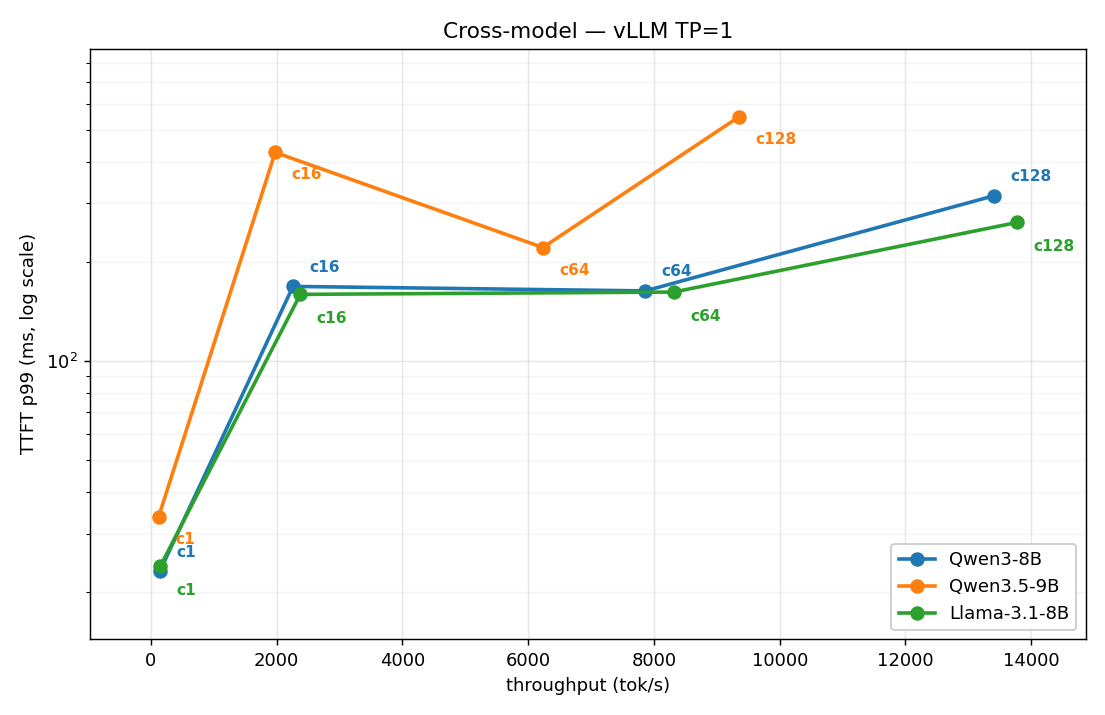
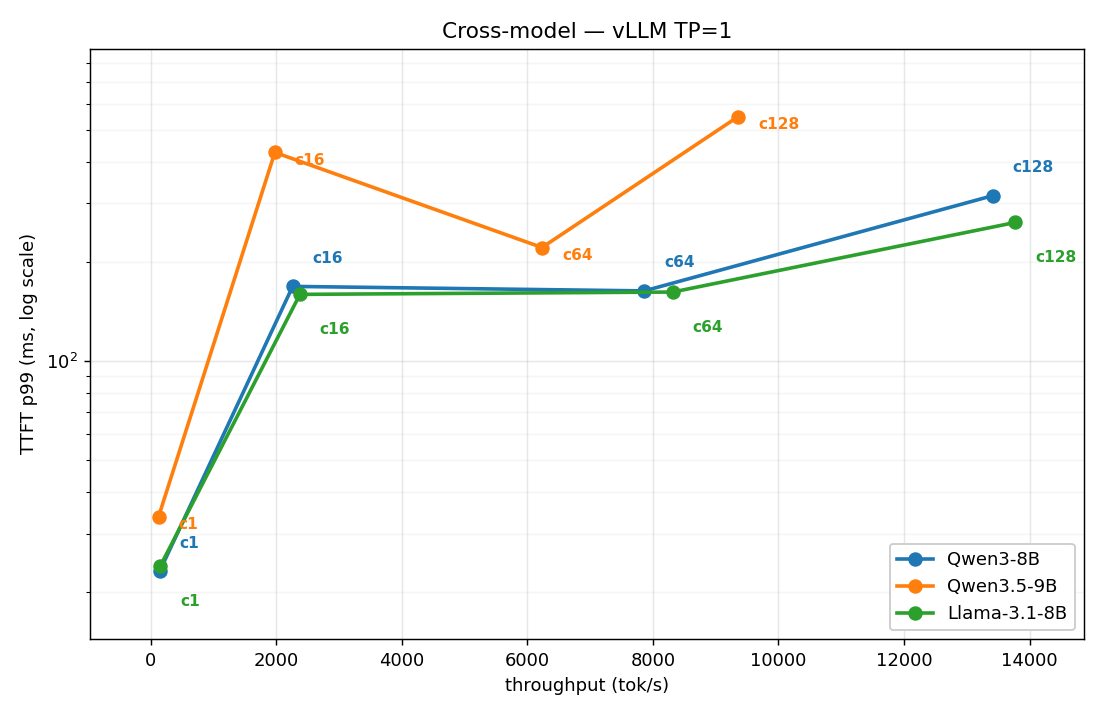
fix(charts): separate coincident concurrency labels in cross-model pareto
The cross-model chart (Qwen3-8B / Llama-3.1-8B near-coincident curves) had
the c1 label landing on an adjacent series' marker/line. Make the per-series
label-offset scheme depend on series count: keep the proven 2-series scheme
(up-right / down-right, diverging at crossovers) for the head-to-heads, and
fan 3 series into three vertical lanes so coincident markers still get
vertically-separated labels. Head-to-head PNGs regenerate byte-identical;
only pareto_models.png changes. Also tighten a roofline docstring to say
'NVIDIA's own kernels' rather than 'compiled engine' (measured runs use the
PyTorch backend).

diff --git a/bench/pareto.py b/bench/pareto.py
@@ -148,10 +148,17 @@ def _plot(runs, tags, fname, title):
     if not any(t in runs for t in tags):
         return
     fig, ax = plt.subplots(figsize=(8.5, 5.5))
-    # Per-series annotation offsets (in points) so concurrency labels never sit on the
-    # markers, and labels from different series near the same spot do not collide.
-    offsets = [(9, 8), (9, -15), (9, -16)]
     present = [t for t in tags if t in runs]
+    # Per-series annotation offsets (in points) so concurrency labels never sit on the
+    # markers, and labels from near-coincident series do not collide. The scheme depends on
+    # how many series share the axes:
+    #   2 series (head-to-heads): the two curves cross, so push series 0 up-right and
+    #     series 1 down-right — labels diverge away from each crossover, never stacking.
+    #   3 series (cross-model): two curves (Qwen3-8B / Llama-3.1-8B) are near-coincident the
+    #     whole sweep, so fan the three labels to three fixed vertical lanes (top/mid/bottom),
+    #     all offset right, so coincident markers still get vertically-separated labels.
+    offsets = ([(9, 8), (9, -15)] if len(present) <= 2
+               else [(11, 13), (11, -7), (11, -22)])
     for i, tag in enumerate(present):
         rs = runs[tag]
         xs = [r["throughput_tok_s"] for r in rs]

diff --git a/bench/roofline_check.py b/bench/roofline_check.py
@@ -8,7 +8,7 @@ whole weight set once, so the ceiling is
 
 This is the sanity check that caught a real config bug in this repo: an early TRT-LLM run
 measured 162 tok/s for Llama-3.1-8B FP8 (TP=2) = only ~19% of roofline, which is physically
-implausible for a compiled engine. Root cause: CUDA graphs were silently NOT enabled (wrong
+implausible for NVIDIA's own kernels. Root cause: CUDA graphs were silently NOT enabled (wrong
 `extra_llm_api_options` schema). After the fix the same config hit 374 tok/s = ~45% of the
 TP=2 roofline / ~89% of the 1-GPU roofline — in the expected band. Numbers far below roofline
 are a red flag to debug, not to publish.